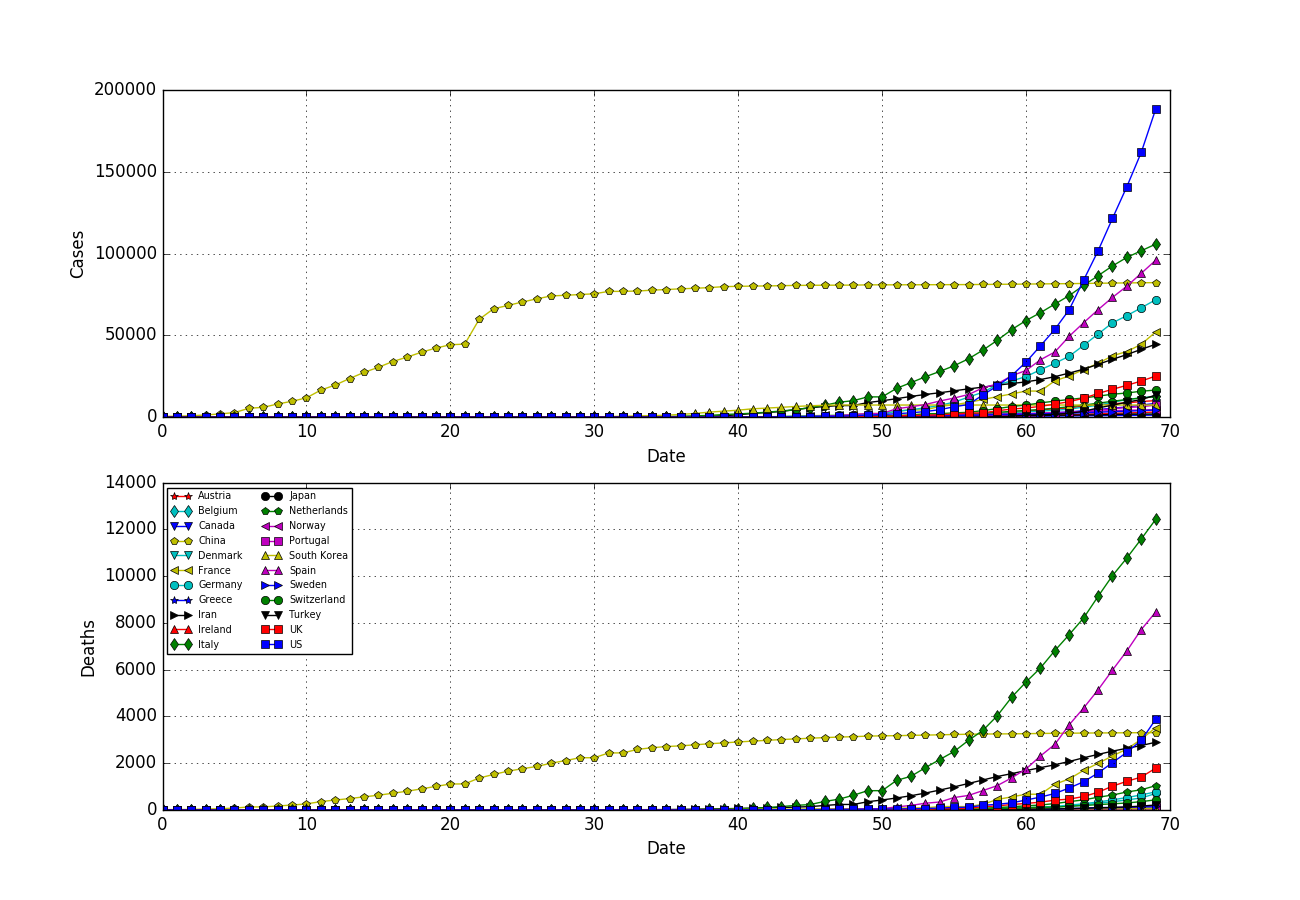
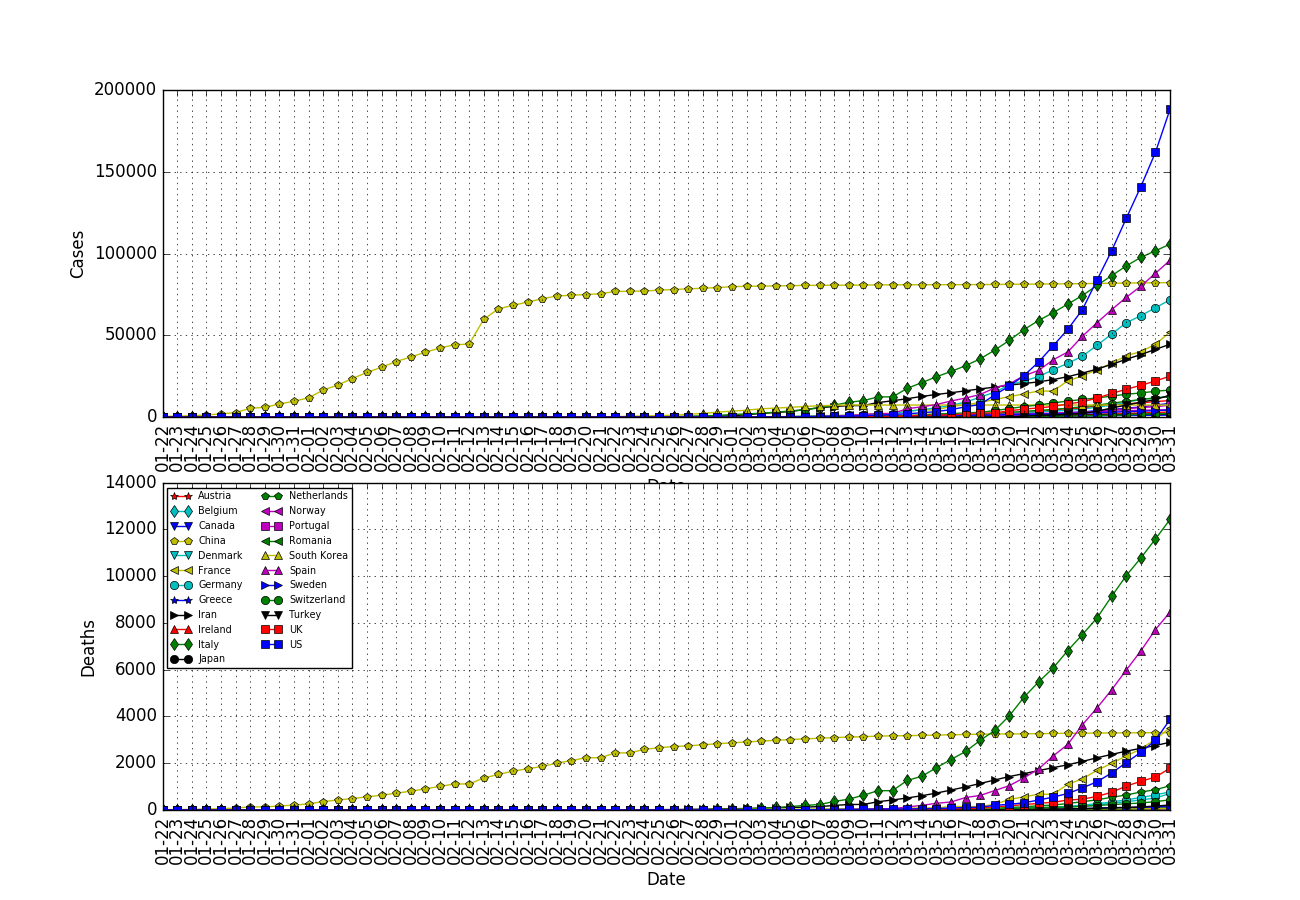
Fix totalsGraph plot

diff --git a/plots.py b/plots.py
@@ -31,11 +31,6 @@ for country in c.allCountries:
     color[country] = colors[colorNr]
     markerNr = (markerNr + 1) % len(markers)
     colorNr = (colorNr + 1) % len(colors)
-    # if markerNr == len(markers):
-    #     markerNr = 0
-    # if colorNr == len(colors):
-    #     colorNr = 0
-
 
 def plotGraph(daysBefore=0):
     numOfPlots = len([s for s in skip if not s])
@@ -68,16 +63,16 @@ def plotGraph(daysBefore=0):
         axes.set_ylabel(plotLabel)
 
         # plt.title('Title')
-        # axes.set_xticks(c.xValues)
-        # axes.set_xticklabels(c.xTicks)
-        axes.tick_params(axis='x', which='major')
+        axes.set_xticks(c.xValues)
+        axes.set_xticklabels(c.xTicks, rotation = 90)
+        axes.tick_params(axis='x')
         # plt.xticks(xValues, xTicks,  rotation='vertical')
 
         axes.grid(True)
 
         maxX = len(c.xValues)
         if daysBefore != 0:
-            minX = maxX - daysBefore  # 30 days before
+            minX = maxX - daysBefore  
             axes.set_xlim([minX, maxX])
         if maxY[i] != 0:
             axes.set_ylim([0, maxY[i]])
@@ -103,22 +98,22 @@ def plotGraph(daysBefore=0):
 # cdra = 1 # cases:0 , deaths:1, rec: 2, act: 3
 
 
-def scatterGraph(cdra):
+def totalsGraph(cdra, daysBefore=0):
     fig = plt.figure(figsize=(figsizeX, figsizeY))
     ax1 = fig.add_subplot(111)
-    # for country in ['China', 'Italy', 'Spain', 'Greece',  'Germany', 'US', 'UK']:
 
-    xlabel = ['Total cases', 'Total Deaths',
-              'Total recoveries', 'Total active']
+    xlabel = ['Total ' + str(l) for l in c.label]
     daysLabel = ' in last ' + str(timePeriod) + ' days'
-    ylabel = ['New cases' + daysLabel, 'New deaths' + daysLabel,
-              'New recoveries' + daysLabel, 'New active' + daysLabel]
+    ylabel = ['New ' + str(l) + daysLabel for l in c.label]
 
-    lastTime = timePeriod
+    fromValue = 0
+    if daysBefore != 0:
+        fromValue = len(c.xTicks) - timePeriod - daysBefore + 1
+
     for country in c.countries:
         totalNewCasesLastTime = util.runningTotal(
-            util.countryNewCases(country, cdra), lastTime)
-        totalCases = c.yValues[cdra][country][lastTime-1:]
+            util.newCases(c.yValues[cdra][country]), timePeriod)[fromValue:]
+        totalCases = c.yValues[cdra][country][timePeriod-1:][fromValue:]
 
         pairs = [(i, j) for i, j in zip(
             totalNewCasesLastTime, totalCases) if i > 0 and j > 0]
@@ -131,24 +126,36 @@ def scatterGraph(cdra):
         plt.ylabel(ylabel[cdra])
         plt.grid(True)
 
+        plt.xlim(1, 1000000)
+        plt.ylim(1, 10000)
+        if cdra in [0, 2, 3]:
+            plt.ylim(1, 1000000)
+        else:
+            plt.xlim(1, 100000)
+
         ax1.plot(tot, new, color=color[country],
                  marker=marker[country], label=country)
 
-    plt.legend(loc='upper left')
+        if len(tot) > 0:
+            anx = tot[-1]
+            any = new[-1]
+        else:  # outside the visible area
+            anx = 0.1
+            any = 0.1
+
+        annPoint = (anx*1.2, any/1.1)
+        ax1.annotate(country, xy=annPoint, xytext=annPoint)
+    # plt.legend(loc='upper left')
     plt.show()
 
 
 def initAnimatedScatterGraph(cdra, line, annotation):
     fig = plt.figure(figsize=(figsizeX, figsizeY))
-
     ax1 = fig.add_subplot(111)
-    # for country in ['China', 'Italy', 'Spain', 'Greece',  'Germany', 'US', 'UK']:
 
-    xlabel = ['Total cases', 'Total Deaths',
-              'Total recoveries', 'Total active']
+    xlabel = ['Total ' + str(l) for l in c.label]
     daysLabel = ' in last ' + str(timePeriod) + ' days'
-    ylabel = ['New cases' + daysLabel, 'New deaths' + daysLabel,
-              'New recoveries' + daysLabel, 'New active' + daysLabel]
+    ylabel = ['New ' + str(l) + daysLabel for l in c.label]
 
     for country in c.countries:
         new = []
@@ -249,7 +256,7 @@ def animate(cdra, daysBefore=0, speed=500, repeat=False):
         plt.show()
 
 
-def lastWeekVsTotal(cdra):
+def lastDaysSumVsTotal(cdra):
     past = len(c.xTicks) - timePeriod
 
     fig = plt.figure(figsize=(figsizeX, figsizeY))
@@ -271,4 +278,9 @@ def lastWeekVsTotal(cdra):
     else:
         plt.legend(c.countries, loc='lower left', fontsize='small', ncol=1)
     plt.ylabel('Last '+ str(timePeriod) + ' days ' + c.label[cdra] + ' / Total ' + c.label[cdra])
+
+    ax1.set_xticks(c.xValues)
+    ax1.set_xticklabels(c.xTicks[timePeriod:], rotation = 90)
+    ax1.tick_params(axis='x')
+    ax1.grid(True)
     plt.show()

diff --git a/read.py b/read.py
@@ -16,6 +16,16 @@ CLI.add_argument('-c', '--country',
                  help='countries to present in plots')
 CLI.add_argument('files', nargs='+', type=str,
                  help='csv files to read from')
+
+CLI.add_argument('-p', '--plot', action='store_true',
+                 help='time plots of cases/deaths/recoveries/active. Choose plots to skip with the --skip flag')
+CLI.add_argument('-t', '--totalsGraph', action='store_true',
+                 help='new n numbers in last d days/total numbers. Choose which numbers to plot with the --number flag and how many days with the -d flag.')
+CLI.add_argument('-a', '--animate', action='store_true',
+                 help='animate new numbers/total numbers. Choose which numbers to plot with the --number flag')
+CLI.add_argument('-w', '--week', action='store_true', 
+                 help='Plot last days sum vs total. Although the flag is named week any number of days can be set with -r')
+
 CLI.add_argument('-d', '--days', nargs='?', type=int, default=0,
                  help='number of days to plot before today. By default plots start from the beginning of data collection.')
 CLI.add_argument('--maxY', nargs=4, type=int, default=[0, 0, 0, 0],
@@ -25,10 +35,8 @@ CLI.add_argument('-l', '--logY', action='store_true',
 CLI.add_argument('-i', '--interactive', action='store_true',
                  help='open interactive python console after parsing the files')
 CLI.add_argument('--csv', action='store_true', help='generate CSV output')
-CLI.add_argument('-p', '--plot', action='store_true',
-                 help='time plots of cases/deaths/recoveries/active. Choose plots to skip with the --skip flag')
-CLI.add_argument('-a', '--animate', action='store_true',
-                 help='animate new numbers/total numbers. Choose which numbers to plot with the --number flag')
+
+
 CLI.add_argument('-n', '--number', nargs='?', type=int, default=1,
                  help='number to animate 0:cases, 1:deaths, 2:recovered, 3:active')
 CLI.add_argument('-s', '--savetofile', nargs='?', type=str,
@@ -37,10 +45,8 @@ CLI.add_argument('-m', '--million', action='store_true',
                  help='in plots divide values by country population in millions')
 CLI.add_argument('--skip', nargs=4, default=[False, False, True, True],
                  help='boolean (True|False) whether the specific time plot will be drawn. Plots: Cases, Deaths, Recovered, Active')
-CLI.add_argument('-w', '--week', action='store_true', 
-                 help='Plot last week vs total')
 CLI.add_argument('-r', '--runningTotal', nargs='?', type=int, default=7,
-                 help='number of days to calculate running totals (in animation/last week vs total)')          
+                 help='number of days to calculate running totals (in animation/last days sum vs total)')          
 args = CLI.parse_args()
 
 c.countries = args.country
@@ -69,7 +75,10 @@ if args.csv:
     c.generateCSV()
 
 if args.week:
-    p.lastWeekVsTotal(args.number)
+    p.lastDaysSumVsTotal(args.number)
+
+if args.totalsGraph:
+    p.totalsGraph(args.number, int(args.days))
 
 if args.interactive:
     code.interact(local=locals())

diff --git a/README.md b/README.md
@@ -51,12 +51,6 @@ python read.py -h
 
 Output:
 ```
-usage: read.py [-h] [-c [COUNTRY [COUNTRY ...]]] [-d [DAYS]]
-               [--maxY MAXY MAXY MAXY MAXY] [-l] [-i] [--csv] [-p] [-a]
-               [-n [NUMBER]] [-s [SAVETOFILE]] [-m]
-               [--skip SKIP SKIP SKIP SKIP]
-               files [files ...]
-
 Plot graphs for the COVID-19
 
 positional arguments:
@@ -66,6 +60,15 @@ optional arguments:
   -h, --help            show this help message and exit
   -c [COUNTRY [COUNTRY ...]], --country [COUNTRY [COUNTRY ...]]
                         countries to present in plots
+  -p, --plot            time plots of cases/deaths/recoveries/active. Choose
+                        plots to skip with the --skip flag
+  -t, --totalNumbers    new n numbers in last d days/total numbers. Choose
+                        which numbers to plot with the --number flag and how
+                        many days with the -d flag.
+  -a, --animate         animate new numbers/total numbers. Choose which
+                        numbers to plot with the --number flag
+  -w, --week            Plot last days sum vs total. Although the flag is
+                        named week any number of days can be set with -r
   -d [DAYS], --days [DAYS]
                         number of days to plot before today. By default plots
                         start from the beginning of data collection.
@@ -75,10 +78,6 @@ optional arguments:
   -i, --interactive     open interactive python console after parsing the
                         files
   --csv                 generate CSV output
-  -p, --plot            time plots of cases/deaths/recoveries/active. Choose
-                        plots to skip with the --skip flag
-  -a, --animate         animate new numbers/total numbers. Choose which
-                        numbers to plot with the --number flag
   -n [NUMBER], --number [NUMBER]
                         number to animate 0:cases, 1:deaths, 2:recovered,
                         3:active
@@ -89,7 +88,10 @@ optional arguments:
   --skip SKIP SKIP SKIP SKIP
                         boolean (True|False) whether the specific time plot
                         will be drawn. Plots: Cases, Deaths, Recovered, Active
-  -w, --week            Plot last week vs total
+  -r [RUNNINGTOTAL], --runningTotal [RUNNINGTOTAL]
+                        number of days to calculate running totals (in
+                        animation/last days sum vs total)
+
 
 ```
 
@@ -105,8 +107,16 @@ or starting some days ago (e.g. 20)
 ```
 p.plotGraph(20)
 ```
+Plot Last 7 days total vs Total (0:cases, 1:deaths, 2:recovered, 3:active)
+```
+p.totalsGraph(1)
+```
+Plot Last 7 days total vs Total starting 20 days ago (0:cases, 1:deaths, 2:recovered, 3:active)
+```
+p.totalsGraph(1, 20)
+```
 
-Animate deaths/week vs total deaths. 0:cases, 1:deaths, 2:recovered, 3:active
+Animate total of deaths in the last 7 days vs total deaths. 0:cases, 1:deaths, 2:recovered, 3:active
 ```
 p.animate(1)
 ```
